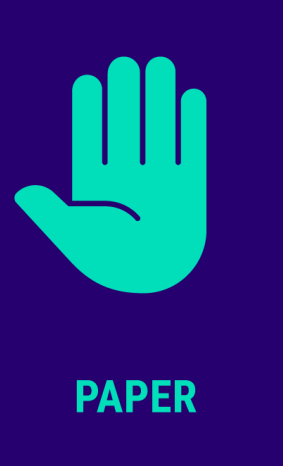
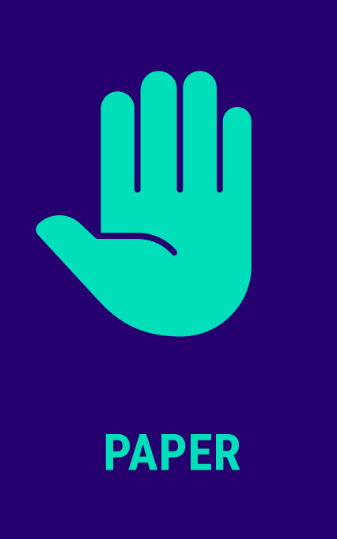
change images to align text appropriately, added respective divs to contain score and eventually display result of each round

Changed region(s): [[0.0565, 0.1202, 0.7633, 0.6309], [0.2544, 0.7811, 0.7067, 0.9013], [0.5936, 0.6009, 0.6502, 0.6309]]

diff --git a/index.html b/index.html
@@ -7,11 +7,15 @@
     </head>
     <body>
         <h1>Rock Paper Scissors</h1>
-        <div class="rps-choices">
-            <button class="rock">ROCK</button>
-            <button class="paper">PAPER</button>
-            <button class="scissors">SCISSORS</button>
+        <div class="score">
+            <h2></h2>
         </div>
+        <div class="rps-choices">
+            <button type="button" class="rock"><img src="images/rock.png" width="260" height="500" alt="rock"></button>
+            <button type="button" class="paper"><img src="images/paper.png" width="260" height="500" alt="paper"></button>
+            <button type="button" class="scissors"><img src="images/scissors.png" width="260" height="500" alt="scissors"></button>
+        </div>
+        <h3 class="result"></h2>
         <script src="script.js"></script>        
     </body>
 </html>

diff --git a/styles.css b/styles.css
@@ -4,3 +4,13 @@ h1 {
     text-align: center;
     color: crimson;
 }
+
+body {
+    background-color: rgb(38,0,110);
+}
+
+.rps-choices {
+    display: flex;
+    justify-content: space-evenly;
+    padding-top: 50px;
+}
